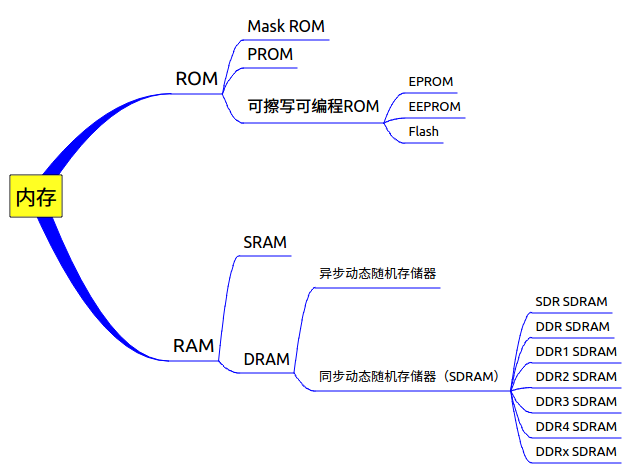
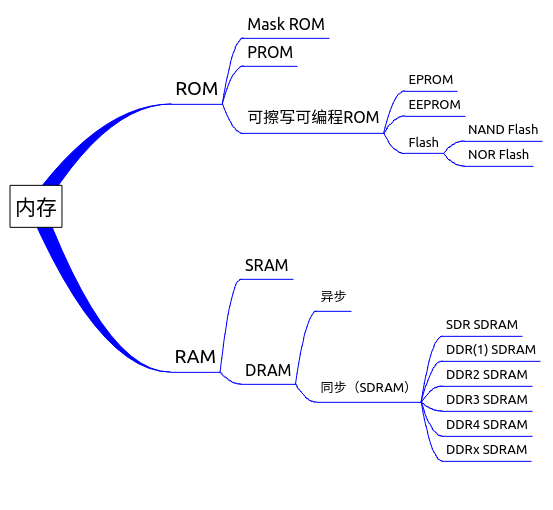
Fix error and update ch1/SDRAM.

Changed region(s): [[0.2152, 0.4716, 0.9837, 1.0], [0.0, 0.0295, 0.9837, 0.7368]]

diff --git a/ch1/SDRAM.md b/ch1/SDRAM.md
@@ -1,0 +1,7 @@
+SDRAM
+========
+[SDRAM](https://en.wikipedia.org/wiki/Synchronous_dynamic_random-access_memory)最早在1970s被应用在Intel的芯片系统，但是直到1993年以后，[JEDEC](https://en.wikipedia.org/wiki/JEDEC)公布了第一个SDRAM的行业标准之后，SDRAM才开始广泛的为电子工业所认可和应用。这个行业标准的推出的意义是深远的，它解决了不同厂商SDRAM芯片的相互兼容性问题，它的成功也促进了后面DDRx SDRAM的标准的陆续公布。让我们回顾一下当时的芯片（如下图，取自维基百科），当代电子设备中已经看不到了，但是我们现在还是可以在Google上搜索到datasheet。
+
+![SDRAM](../Drawings/Micron_48LC32M8A2.png)
+
+最初的内存包括DRAM通常都是异步的工作模式，什么是异步的工作模式呢？异步和同步都是相对与内存控制器（主芯片）而言的，需要注意的是这里的异步和同步有区别与软件中的概念。在一个异步的工作模式中，对内存的操作完全依赖于控制输入信号，这样的缺点很直观，你来一个控制信号，我就响应一下，操作模式太简单直接，操作效率比较低。而引入同步的工作模式后，内存可以同步内存控制器或者说主芯片的时钟，换而言之，内存的操作有了参考时钟，就好比我们从远古时代混沌度日进化到了拥有时间的概念，这样，内存芯片内部有一个状态机，内存的操作响应需要等待时钟信号的调度和指挥而不是像DRAM时代立即直接响应内存操作。这就是timing的由来，timing的出现提供了内存操作复杂多样化的可能性而不用像DRAM那样one-by-one，从而提高了内存的操作效率。
